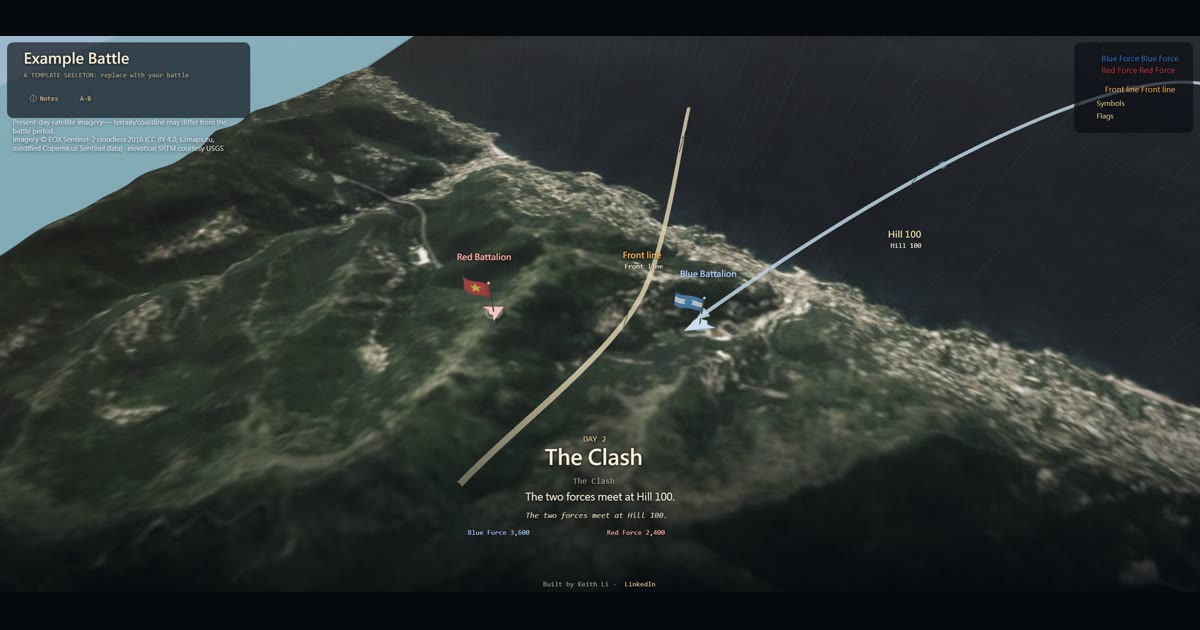
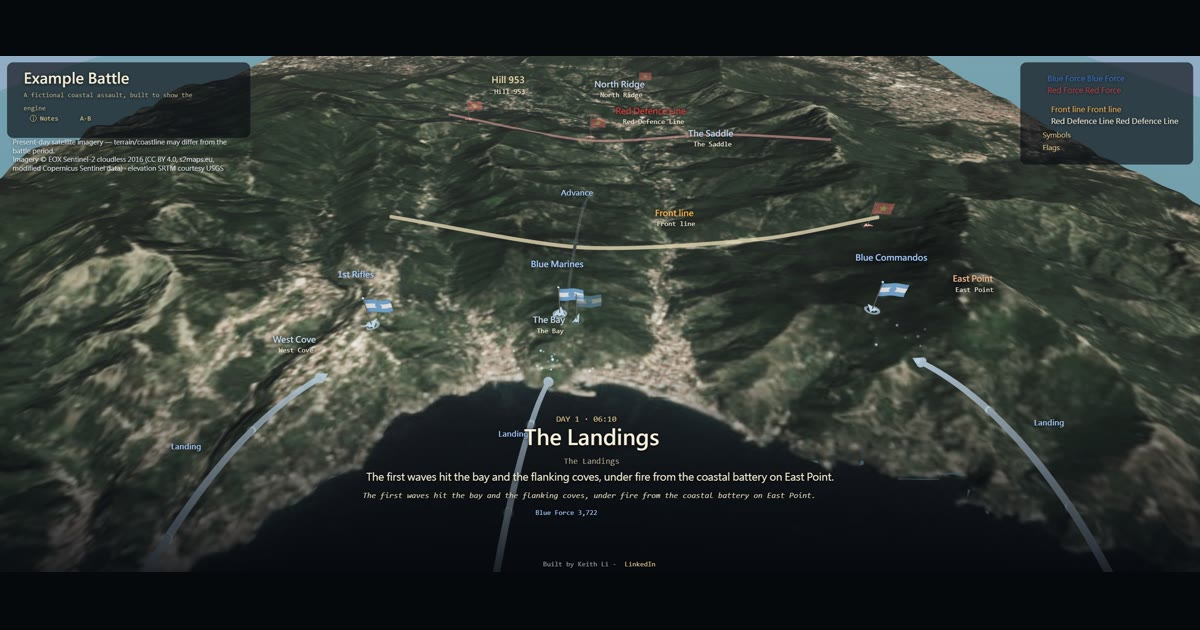
feat: replace the example with a complete fictional coastal assault
The bundled demo was a near-empty box (mostly open sea) with two units
standing on the water and a front line drawn across the sea, which read
as an abandoned skeleton. data.js is now a complete fictional coastal
assault on real Italian mountain coast: Blue Force lands from the sea and
drives inland up the ridges against Red Force, with 8 units, landing and
attack arrows, a collapsing front, a defence line, weather and a six-shot
directed tour, every unit and front on land. data.example.js stays the
minimal copy-me skeleton; README + hero gif + og updated to match.

diff --git a/data.js b/data.js
@@ -1,130 +1,183 @@
 /* =====================================================================
- *  data.example.js — a MINIMAL, VALID skeleton battle.
+ *  data.js — the bundled EXAMPLE BATTLE (a COMPLETE, self-contained demo).
  *  ---------------------------------------------------------------------
- *  COPY this file to data.js and fill it in with your OWN researched, SOURCED
- *  scenario. This is a tiny SYNTHETIC example (2 sides, ~2 days, a few events) —
- *  NOT a real battle. Every value is a placeholder that shows the SHAPE of the
- *  data; replace all of it.
+ *  This is a FICTIONAL coastal assault: "Blue Force" lands from the sea and
+ *  drives inland up the mountains; "Red Force" defends the high ground. It is
+ *  NOT a real battle, it cites no sources (it is invented), and it exists only
+ *  to show the engine running a full scenario out of the box on real terrain.
  *
- *  Validate as you author (no browser, no tiles needed):
- *      node tools/validate.mjs data.example.js
- *  The engine refuses to boot a battle that fails this contract, and the error
- *  names the exact field. Full field reference: PLAYBOOK.md. Procedure: AGENTS.md.
+ *  To build YOUR OWN battle, do NOT edit this file. Copy the minimal annotated
+ *  skeleton instead:  data.example.js  (and  flags.example.js),  then follow
+ *  PLAYBOOK.md (the field reference) and AGENTS.md (the procedure). Validate as
+ *  you author, no browser or tiles needed:   node tools/validate.mjs data.example.js
  *
- *  Bilingual slots: `_zh` = your PRIMARY / local language (ANY script — set
+ *  Bilingual slots: `_zh` = your PRIMARY / local language (any script: set
  *  meta.fonts + meta.dir:"rtl" for non-Latin / right-to-left); `_en` = the
- *  SECONDARY language (conventionally English). This example uses English in both.
- *
- *  GOLDEN RULE: history must be SOURCED, never invented. notes.sources is required;
- *  the engine will not start without it. (Here it is honestly marked as example data.)
+ *  SECONDARY language (conventionally English). This fictional demo uses English in both.
  * ===================================================================== */
 window.BATTLE_DATA = (function () {
 
   /* -- the two sides. The faction <key> ("blue"/"red") becomes a CSS variable
-   *    (--fac-<key>) and a class; keep it a simple lowercase identifier.
-   *    role drives attacker/defender behaviour (front/retreat colour, the strength
-   *    bars, the progress gradient). N sides are allowed — add more keys. -------- */
+   *    (--fac-<key>) and a class. role drives attacker/defender behaviour. ------- */
   const factions = {
-    blue: { main:0x3b7be2, glow:0x5aa0ff, dim:0x1f3f7a, css:"#3b7be2", name_zh:"Blue Force", name_en:"Blue Force", role:"attacker", maxStrength:5000, defaultFlag:"blue" },
-    red:  { main:0xe23b3b, glow:0xff6a5a, dim:0x7a1f1f, css:"#e23b3b", name_zh:"Red Force",  name_en:"Red Force",  role:"defender",  maxStrength:5000, defaultFlag:"red"  },
+    blue: { main:0x3b7be2, glow:0x5aa0ff, dim:0x1f3f7a, css:"#3b7be2", name_zh:"Blue Force", name_en:"Blue Force", role:"attacker", maxStrength:5200, defaultFlag:"blue" },
+    red:  { main:0xe23b3b, glow:0xff6a5a, dim:0x7a1f1f, css:"#e23b3b", name_zh:"Red Force",  name_en:"Red Force",  role:"defender",  maxStrength:4800, defaultFlag:"red"  },
   };
 
   /* -- the map box (REAL WGS84 lng/lat) + the clock window + identity.
-   *    meta.geo MUST match the bbox in tools/fetch_tiles (one place; the fetcher reads it).
-   *    `Z` is the tile zoom (13 is a good default). day keys below live in [dayMin..dayMax]. */
+   *    meta.geo is the single bbox source (tools/fetch_tiles reads it). Z is the tile zoom. */
   const meta = {
-    geo:{ minLng:9.00, maxLng:9.14, minLat:44.32, maxLat:44.43, Z:13 },   // example: a small coastal/hill area — REPLACE with your battle's box
-    dayMin:1, dayMax:2.5, year:2000, month:1, lastDay:2,                  // clock window + the scene-label date prefix/clamp
-    title:"Example Battle", subtitle:"A TEMPLATE SKELETON: replace with your battle",
-    // OPTIONAL (delete to use engine defaults): dir:"rtl" for RTL narration; fonts:{display,mono} for a non-Latin script;
-    // theme:{ sky:{...}, sea, sun:{...}, amb:{...}, grade:{...} } for a custom cinematic look (deep-merged over the default).
+    geo:{ minLng:14.58, maxLng:14.72, minLat:40.61, maxLat:40.72, Z:13 },   // a real coastal mountain front: sea to the south, ridges inland
+    dayMin:1, dayMax:2.4, year:0, month:0, lastDay:2,                       // clock window; year:0 keeps the date label generic for a fictional scenario
+    title:"Example Battle", subtitle:"A fictional coastal assault, built to show the engine",
+    // OPTIONAL theme:{ sky:{...}, sea, sun:{...}, grade:{...} } restyles the look (see PLAYBOOK.md); omitted here to use the engine defaults.
   };
-
-  // -- ui is OPTIONAL: omit it and every engine-rendered string defaults to English. Provide it to translate them.
 
   /* -- intro: the opening title card + its establishing camera. ----------------- */
   const intro = { title_zh:"Example Battle", title_en:"Example Battle",
-    sub_zh:"A skeleton scenario: replace with your own", sub_en:"A skeleton scenario: replace with your own",
-    cam:{ lng:9.07, lat:44.37, dist:2200, az:0, el:52 } };
+    sub_zh:"A fictional coastal assault, Blue Force vs Red Force", sub_en:"A fictional coastal assault, Blue Force vs Red Force",
+    cam:{ lng:14.642, lat:40.662, dist:3000, az:0, el:54 } };
 
   /* -- outro: the closing pull-back camera. ------------------------------------- */
-  const outro = { title_zh:"The End", title_en:"The End",
-    narration_zh:"Replace with your closing line.", narration_en:"Replace with your closing line.",
-    cam:{ lng:9.07, lat:44.37, dist:2400, az:0, el:48, orbit:1.0, tween:3.4 } };
+  const outro = { title_zh:"The Beachhead Holds", title_en:"The Beachhead Holds",
+    narration_zh:"By nightfall Blue Force is ashore and into the hills. A fictional engine demo: replace it with your own battle.",
+    narration_en:"By nightfall Blue Force is ashore and into the hills. A fictional engine demo: replace it with your own battle.",
+    cam:{ lng:14.636, lat:40.66, dist:2900, az:0, el:50, orbit:1.0, tween:3.4 } };
 
-  /* -- flagLegend: the flag swatches in the legend (each names a flag id + faction).
-   *    Define the flag art for these ids in flags.js (unknown ids fall back to a default). */
+  /* -- flagLegend: the flag swatches in the legend (flag id + faction). Art is in flags.js. -- */
   const flagLegend = [
     { flag:"blue", zh:"Blue Force", en:"Blue Force", faction:"blue" },
     { flag:"red",  zh:"Red Force",  en:"Red Force",  faction:"red"  },
   ];
 
-  /* -- geography: place labels + (optional) defensive lines. regions/points/lines
-   *    are all OPTIONAL — a sparse battle may have few or none. ------------------ */
+  /* -- geography: place labels + an optional defensive line. All on land. -------- */
   const geography = {
     points: [
-      { name_en:"Hill 100", name_zh:"Hill 100", type:"hill", lng:9.06, lat:44.375, h:100 },
+      { name_en:"The Bay", name_zh:"The Bay", type:"town", lng:14.632, lat:40.651 },
+      { name_en:"West Cove", name_zh:"West Cove", type:"town", lng:14.612, lat:40.648 },
+      { name_en:"East Point", name_zh:"East Point", type:"fort", lng:14.668, lat:40.652 },
+      { name_en:"Hill 953", name_zh:"Hill 953", type:"peak", lng:14.620, lat:40.701, h:953 },
+      { name_en:"North Ridge", name_zh:"North Ridge", type:"region", lng:14.640, lat:40.700 },
+      { name_en:"The Saddle", name_zh:"The Saddle", type:"peak", lng:14.654, lat:40.690 },
     ],
-    // lines: [ { name_zh:"Defence Line", name_en:"Defence Line", color:"#e0b85a",
-    //           path:[[9.10,44.41],[9.09,44.38],[9.10,44.36]], fade:{ holdUntil:1.5, collapseBy:2.2, span:0.5 } } ],
+    lines: [
+      { name_zh:"Red Defence Line", name_en:"Red Defence Line", color:"#e23b3b",
+        path:[[14.612,40.690],[14.634,40.686],[14.654,40.686],[14.668,40.680]],
+        fade:{ holdUntil:1.4, collapseBy:2.2, span:0.5 } },
+    ],
   };
 
-  /* -- units: each force, moving along its track of keyframes {d,lng,lat,s,st}.
-   *    st (state) ∈ march | hold | attack | retreat | landing | dead.
-   *    One keyframe = a fixed unit; two+ = it glides between them. -------------- */
+  /* -- units: each force along its track of keyframes {d,lng,lat,s,st}.
+   *    st (state) in march | hold | attack | retreat | landing | dead. Every keyframe is on land. -- */
   const units = [
-    { id:"blue_1", faction:"blue", kind:"infantry", flag:"blue", cf:true,
-      name_zh:"Blue Battalion", name_en:"Blue Battalion", type:"Infantry",
-      track:[ {d:1, lng:9.02, lat:44.34, s:4000, st:"march"},
-              {d:2, lng:9.075, lat:44.385, s:3600, st:"attack"} ] },
-    { id:"red_1", faction:"red", kind:"infantry", flag:"red", cf:true,
-      name_zh:"Red Battalion", name_en:"Red Battalion", type:"Infantry",
-      track:[ {d:1, lng:9.10, lat:44.40, s:3000, st:"hold"},
-              {d:2, lng:9.09, lat:44.39, s:2400, st:"retreat"} ] },
+    // Blue Force: lands along the bay and drives inland up the valleys.
+    { id:"blue_marines", faction:"blue", kind:"infantry", flag:"blue", cf:true,
+      name_zh:"Blue Marines", name_en:"Blue Marines", type:"Marines",
+      track:[ {d:1, lng:14.632, lat:40.651, s:1600, st:"landing"},
+              {d:1.5, lng:14.633, lat:40.662, s:1500, st:"attack"},
+              {d:2, lng:14.635, lat:40.674, s:1380, st:"attack"} ] },
+    { id:"blue_rifles", faction:"blue", kind:"infantry", flag:"blue", cf:true,
+      name_zh:"1st Rifles", name_en:"1st Rifles", type:"Infantry",
+      track:[ {d:1, lng:14.614, lat:40.650, s:1300, st:"landing"},
+              {d:2, lng:14.620, lat:40.668, s:1120, st:"attack"} ] },
+    { id:"blue_cdo", faction:"blue", kind:"infantry", flag:"blue", cf:true,
+      name_zh:"Blue Commandos", name_en:"Blue Commandos", type:"Commandos",
+      track:[ {d:1, lng:14.662, lat:40.651, s:900, st:"landing"},
+              {d:2, lng:14.658, lat:40.667, s:760, st:"attack"} ] },
+    { id:"blue_armour", faction:"blue", kind:"infantry", flag:"blue", cf:true,
+      name_zh:"Armoured Squadron", name_en:"Armoured Squadron", type:"Armour",
+      track:[ {d:1.3, lng:14.634, lat:40.654, s:1200, st:"march"},
+              {d:2, lng:14.640, lat:40.676, s:1140, st:"attack"} ] },
+    // Red Force: holds the ridges, a coastal battery on the east point, a reserve that counterattacks.
+    { id:"red_garrison", faction:"red", kind:"infantry", flag:"red", cf:true,
+      name_zh:"Red Garrison", name_en:"Red Garrison", type:"Infantry",
+      track:[ {d:1, lng:14.634, lat:40.686, s:1400, st:"hold"},
+              {d:2, lng:14.637, lat:40.696, s:980, st:"retreat"} ] },
+    { id:"red_mtn", faction:"red", kind:"infantry", flag:"red", cf:true,
+      name_zh:"Mountain Battalion", name_en:"Mountain Battalion", type:"Infantry",
+      track:[ {d:1, lng:14.614, lat:40.691, s:1100, st:"hold"},
+              {d:2, lng:14.617, lat:40.697, s:920, st:"hold"} ] },
+    { id:"red_battery", faction:"red", kind:"infantry", flag:"red", cf:true,
+      name_zh:"Coastal Battery", name_en:"Coastal Battery", type:"Artillery",
+      track:[ {d:1, lng:14.668, lat:40.664, s:800, st:"hold"},
+              {d:2, lng:14.665, lat:40.680, s:540, st:"retreat"} ] },
+    { id:"red_reserve", faction:"red", kind:"infantry", flag:"red", cf:true,
+      name_zh:"Red Reserve", name_en:"Red Reserve", type:"Infantry",
+      track:[ {d:1, lng:14.644, lat:40.710, s:1300, st:"hold"},
+              {d:2, lng:14.640, lat:40.695, s:1180, st:"attack"} ] },
   ];
 
-  /* -- arrows: dated movement annotations {f,from,to,d,kind,label}. ------------- */
+  /* -- arrows: dated movement annotations {f,from,to,d,kind,label}. The seaborne
+   *    approach is shown by LANDING arrows (sea -> shore), not by units on the water. -- */
   const arrows = [
-    { f:"blue", from:[9.02,44.34], to:[9.075,44.385], d:1.6, kind:"attack", label:"Advance" },
+    { f:"blue", from:[14.630,40.632], to:[14.632,40.648], d:1.0, kind:"landing", label:"Landing" },
+    { f:"blue", from:[14.610,40.630], to:[14.614,40.647], d:1.0, kind:"landing", label:"Landing" },
+    { f:"blue", from:[14.666,40.632], to:[14.662,40.648], d:1.0, kind:"landing", label:"Landing" },
+    { f:"blue", from:[14.633,40.654], to:[14.635,40.672], d:1.6, kind:"attack", label:"Advance" },
+    { f:"red",  from:[14.643,40.708], to:[14.640,40.696], d:2.0, kind:"attack", label:"Counterattack" },
   ];
 
-  /* -- OPTIONAL scenario arrays. Delete any you do not use. -------------------- */
-  // fronts: dated front-line polylines, each { d, path:[[lng,lat],…] }.
+  /* -- fronts: dated front-line polylines, each { d, path:[[lng,lat],…] }. All on land. -- */
   const fronts = [
-    { d:1, path:[[9.10,44.41],[9.09,44.38],[9.10,44.355]] },
-    { d:2, path:[[9.085,44.40],[9.08,44.385],[9.085,44.36]] },
+    { d:1, path:[[14.612,40.666],[14.634,40.662],[14.654,40.664],[14.668,40.666]] },
+    { d:2, path:[[14.616,40.688],[14.636,40.684],[14.654,40.684],[14.666,40.682]] },
   ];
-  // weather: per-day { d, night, fog, rain, smoke } (each 0..1). Absent → clear day.
+
+  /* -- weather: per-day { d, night, fog, rain, smoke } (each 0..1). ------------- */
   const weather = [
-    { d:1, night:0.0, fog:0.1, rain:0.0, smoke:0.0, zh:"Clear", en:"Clear" },
-    { d:2, night:0.0, fog:0.2, rain:0.1, smoke:0.1, zh:"Overcast", en:"Overcast" },
+    { d:1, night:0.12, fog:0.12, rain:0.0, smoke:0.05, zh:"Dawn, hazy", en:"Dawn, hazy" },
+    { d:2, night:0.0,  fog:0.18, rain:0.05, smoke:0.18, zh:"Overcast, smoke", en:"Overcast, smoke" },
   ];
-  // hotspots: dated combat FX { a, b, kind, lng, lat, i } (kind ∈ firefight|artillery|explosion|landing|air|oilfire).
+
+  /* -- hotspots: dated combat FX { a, b, kind, lng, lat, i }. -------------------- */
   const hotspots = [
-    { a:1.6, b:2.0, kind:"firefight", lng:9.075, lat:44.385, i:0.6 },
+    { a:1.0, b:1.5, kind:"landing",   lng:14.632, lat:40.650, i:0.7 },
+    { a:1.0, b:1.5, kind:"landing",   lng:14.662, lat:40.650, i:0.5 },
+    { a:1.2, b:2.0, kind:"artillery", lng:14.624, lat:40.676, i:0.55 },
+    { a:1.6, b:2.3, kind:"firefight", lng:14.636, lat:40.684, i:0.7 },
   ];
 
-  /* -- storyboard: the directed shots the camera plays in order. Each shot:
-   *    { day, hold, cam:{lng,lat,dist,az,el,orbit}, title_zh, title_en, dateLabel,
-   *      narration_zh?, narration_en?, side?, focus?:[unit ids], commanders?:[{zh,en}] } */
+  /* -- storyboard: the directed shots the camera plays in order. ----------------- */
   const storyboard = [
-    { day:1, hold:8, cam:{lng:9.05, lat:44.36, dist:1800, az:0, el:48, orbit:0.8},
-      title_zh:"The Approach", title_en:"The Approach", dateLabel:"DAY 1",
-      narration_zh:"Blue Force advances from the south.", narration_en:"Blue Force advances from the south.",
-      side:"blue", focus:["blue_1"] },
-    { day:2, hold:9, cam:{lng:9.08, lat:44.385, dist:1200, az:200, el:46, orbit:0.8},
-      title_zh:"The Clash", title_en:"The Clash", dateLabel:"DAY 2",
-      narration_zh:"The two forces meet at Hill 100.", narration_en:"The two forces meet at Hill 100.",
-      side:"both", focus:["blue_1","red_1"] },
+    { day:1, hold:9, cam:{lng:14.636, lat:40.658, dist:2700, az:0, el:42, orbit:0.6},
+      title_zh:"The Approach", title_en:"The Approach", dateLabel:"DAY 1 · 05:30",
+      narration_zh:"At first light Blue Force closes on the coast, the fleet standing off the bay.",
+      narration_en:"At first light Blue Force closes on the coast, the fleet standing off the bay.",
+      side:"blue", focus:["blue_marines"] },
+    { day:1.15, hold:11, cam:{lng:14.632, lat:40.652, dist:1300, az:0, el:38, orbit:0.7},
+      title_zh:"The Landings", title_en:"The Landings", dateLabel:"DAY 1 · 06:10",
+      narration_zh:"The first waves hit the bay and the flanking coves, under fire from the coastal battery on East Point.",
+      narration_en:"The first waves hit the bay and the flanking coves, under fire from the coastal battery on East Point.",
+      side:"blue", focus:["blue_marines","blue_rifles","blue_cdo"] },
+    { day:1.5, hold:10, cam:{lng:14.632, lat:40.668, dist:1250, az:0, el:44, orbit:0.8},
+      title_zh:"Into the Hills", title_en:"Into the Hills", dateLabel:"DAY 1 · Afternoon",
+      narration_zh:"Off the beaches, Blue pushes inland up the valleys toward the ridge.",
+      narration_en:"Off the beaches, Blue pushes inland up the valleys toward the ridge.",
+      side:"blue", focus:["blue_marines","blue_armour"] },
+    { day:2, hold:11, cam:{lng:14.636, lat:40.686, dist:1150, az:200, el:46, orbit:0.8},
+      title_zh:"The Ridge", title_en:"The Ridge", dateLabel:"DAY 2 · Morning",
+      narration_zh:"Red Force holds the high ground along the ridge. The fighting is hardest here.",
+      narration_en:"Red Force holds the high ground along the ridge. The fighting is hardest here.",
+      side:"both", focus:["red_garrison","blue_marines"] },
+    { day:2.1, hold:10, cam:{lng:14.642, lat:40.700, dist:1300, az:0, el:44, orbit:0.9},
+      title_zh:"The Counterattack", title_en:"The Counterattack", dateLabel:"DAY 2 · Midday",
+      narration_zh:"Red's reserve strikes back down from North Ridge, but the beachhead holds.",
+      narration_en:"Red's reserve strikes back down from North Ridge, but the beachhead holds.",
+      side:"red", focus:["red_reserve","blue_armour"] },
+    { day:2.3, hold:12, cam:{lng:14.636, lat:40.662, dist:2600, az:0, el:50, orbit:1.0},
+      title_zh:"The Beachhead Holds", title_en:"The Beachhead Holds", dateLabel:"DAY 2 · Nightfall",
+      narration_zh:"By nightfall Blue Force is ashore and into the hills, the coast secured.",
+      narration_en:"By nightfall Blue Force is ashore and into the hills, the coast secured.",
+      side:"blue", focus:["blue_marines","blue_armour","blue_rifles"] },
   ];
 
-  /* -- notes: REQUIRED. summary + caveats[] + sources. sources MUST be non-empty —
-   *    the engine refuses to boot without it, because history must be sourced, not invented. */
+  /* -- notes: REQUIRED. For a real battle, sources MUST cite your references; the
+   *    engine refuses to boot without a non-empty sources. This demo is fictional, marked honestly. -- */
   const notes = {
-    summary:"This is example template data, not a real battle. Replace it with your researched scenario.",
-    caveats:[ "All units, movements and events here are placeholders for the template.",
-              "If you use present-day satellite imagery, disclose it (coastlines/terrain may have changed)." ],
-    sources:"EXAMPLE DATA: no sources (this is a template skeleton). Replace with your real, cited sources before publishing.",
+    summary:"A fictional coastal assault (Blue Force vs Red Force), built to demonstrate the engine on real terrain. Not a real battle.",
+    caveats:[ "Every force, movement, label and event here is invented for the demo; nothing depicts a real engagement.",
+              "The terrain is real present-day satellite imagery and elevation; the battle laid over it is fictional." ],
+    sources:"FICTIONAL DEMONSTRATION SCENARIO, no historical sources (none exist; it is invented). Real battles you build MUST cite real sources here.",
   };
 
   return { meta, factions, intro, outro, flagLegend, geography, units, arrows, fronts, weather, hotspots, storyboard, notes };

diff --git a/README.md b/README.md
@@ -15,7 +15,7 @@
 [![Three.js r128](https://img.shields.io/badge/Three.js-r128-000000)](https://threejs.org/)
 [![no build, runs offline](https://img.shields.io/badge/build-none-success)](#quick-start)
 
-[![The bundled Example Battle running out of the box: a directed camera over real Italian coastal terrain as Blue Force and Red Force clash, with captions, place labels, period flags, troop-strength readouts, the legend and the day/night timeline](docs/demo.gif)](https://keithligh.github.io/cinematic-3d-battle-engine/)
+[![The bundled Example Battle running out of the box: a fictional coastal assault on real Italian terrain, Blue Force landing from the sea and driving inland against Red Force, with captions, place labels, flags, troop-strength readouts and the legend](docs/demo.gif)](https://keithligh.github.io/cinematic-3d-battle-engine/)
 
 **▶ [Try the live demo](https://keithligh.github.io/cinematic-3d-battle-engine/)** &nbsp;·&nbsp; **🤖 [Build your own: just ask an AI](#build-your-own-just-ask-an-ai)**
 
@@ -30,8 +30,9 @@ scale, with troop movements, period flags, bilingual narration, weather, and a d
 change from one battle to the next. **Every frame is the live engine. Nothing is mocked up.** No build step, no backend,
 no API keys: one folder of static files that runs in any browser.
 
-The repo ships a small fictional **"Example Battle"** (Blue Force vs Red Force) so it plays itself the moment you clone
-it. The same engine already carries two finished documentaries end to end:
+The repo ships a **complete fictional "Example Battle"** so it plays itself the moment you clone it: a coastal assault
+where Blue Force lands from the sea and drives inland against Red Force, on the real terrain of the Italian coast. The
+same engine already carries two finished documentaries end to end:
 **[The Battle of Hong Kong, 1941](https://github.com/keithligh/battle-of-hong-kong-1941)** and
 **[D-Day: The Normandy Landings, 1944](https://github.com/keithligh/d-day-normandy-1944)**.
 
@@ -46,7 +47,7 @@ it. The same engine already carries two finished documentaries end to end:
 - 📚 **Honest by design.** `notes.sources` is a required field: the engine will not start a battle that cites no sources.
 - ⚡ **Zero infrastructure.** Static files, Three.js r128, no build step, no backend, no API keys; runs offline.
 
-> The bundled Example Battle is a deliberately bare Blue-vs-Red skeleton, the starting point you replace with your own. The finished documentaries built on the same engine ([Hong Kong](https://keithligh.github.io/battle-of-hong-kong-1941/), [D-Day](https://keithligh.github.io/d-day-normandy-1944/)) show what it renders once a real battle is described in data.
+> The Example Battle is a complete, self-contained **fictional** demo (it cites no sources because it is invented). To build your own, you do not edit it: you start from the minimal annotated skeleton `data.example.js` and follow [PLAYBOOK.md](PLAYBOOK.md). The finished documentaries on the same engine ([Hong Kong](https://keithligh.github.io/battle-of-hong-kong-1941/), [D-Day](https://keithligh.github.io/d-day-normandy-1944/)) show what it renders once a real, sourced battle is described in data.
 
 > _If this made you think "wow, AI can build that?", a ⭐ helps other people find it._
 